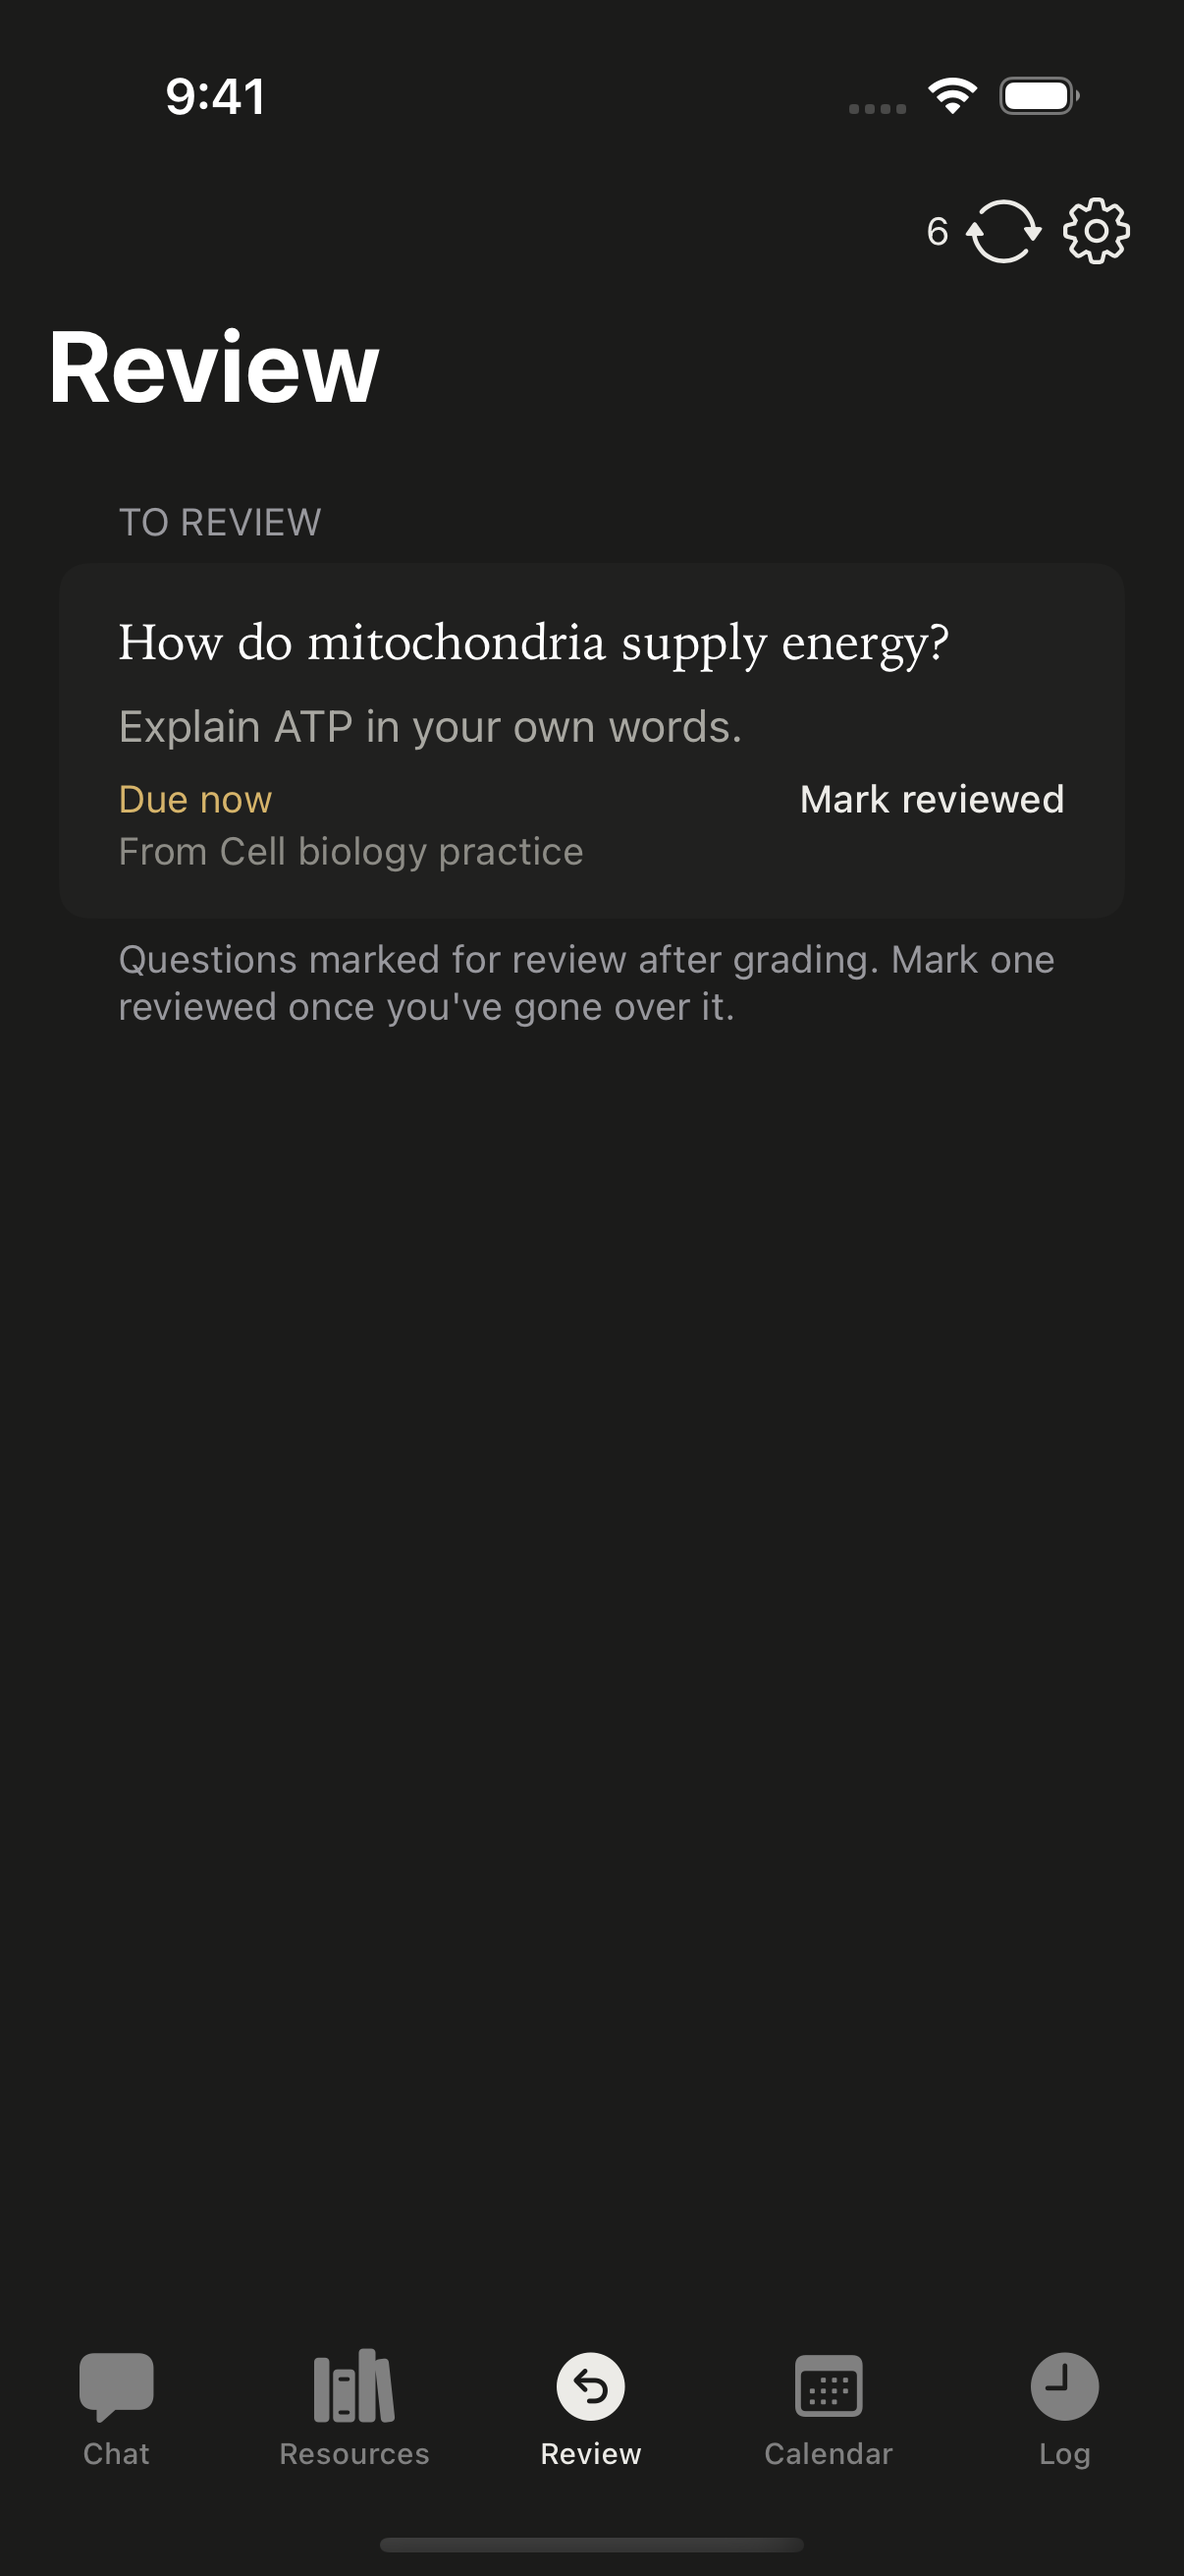
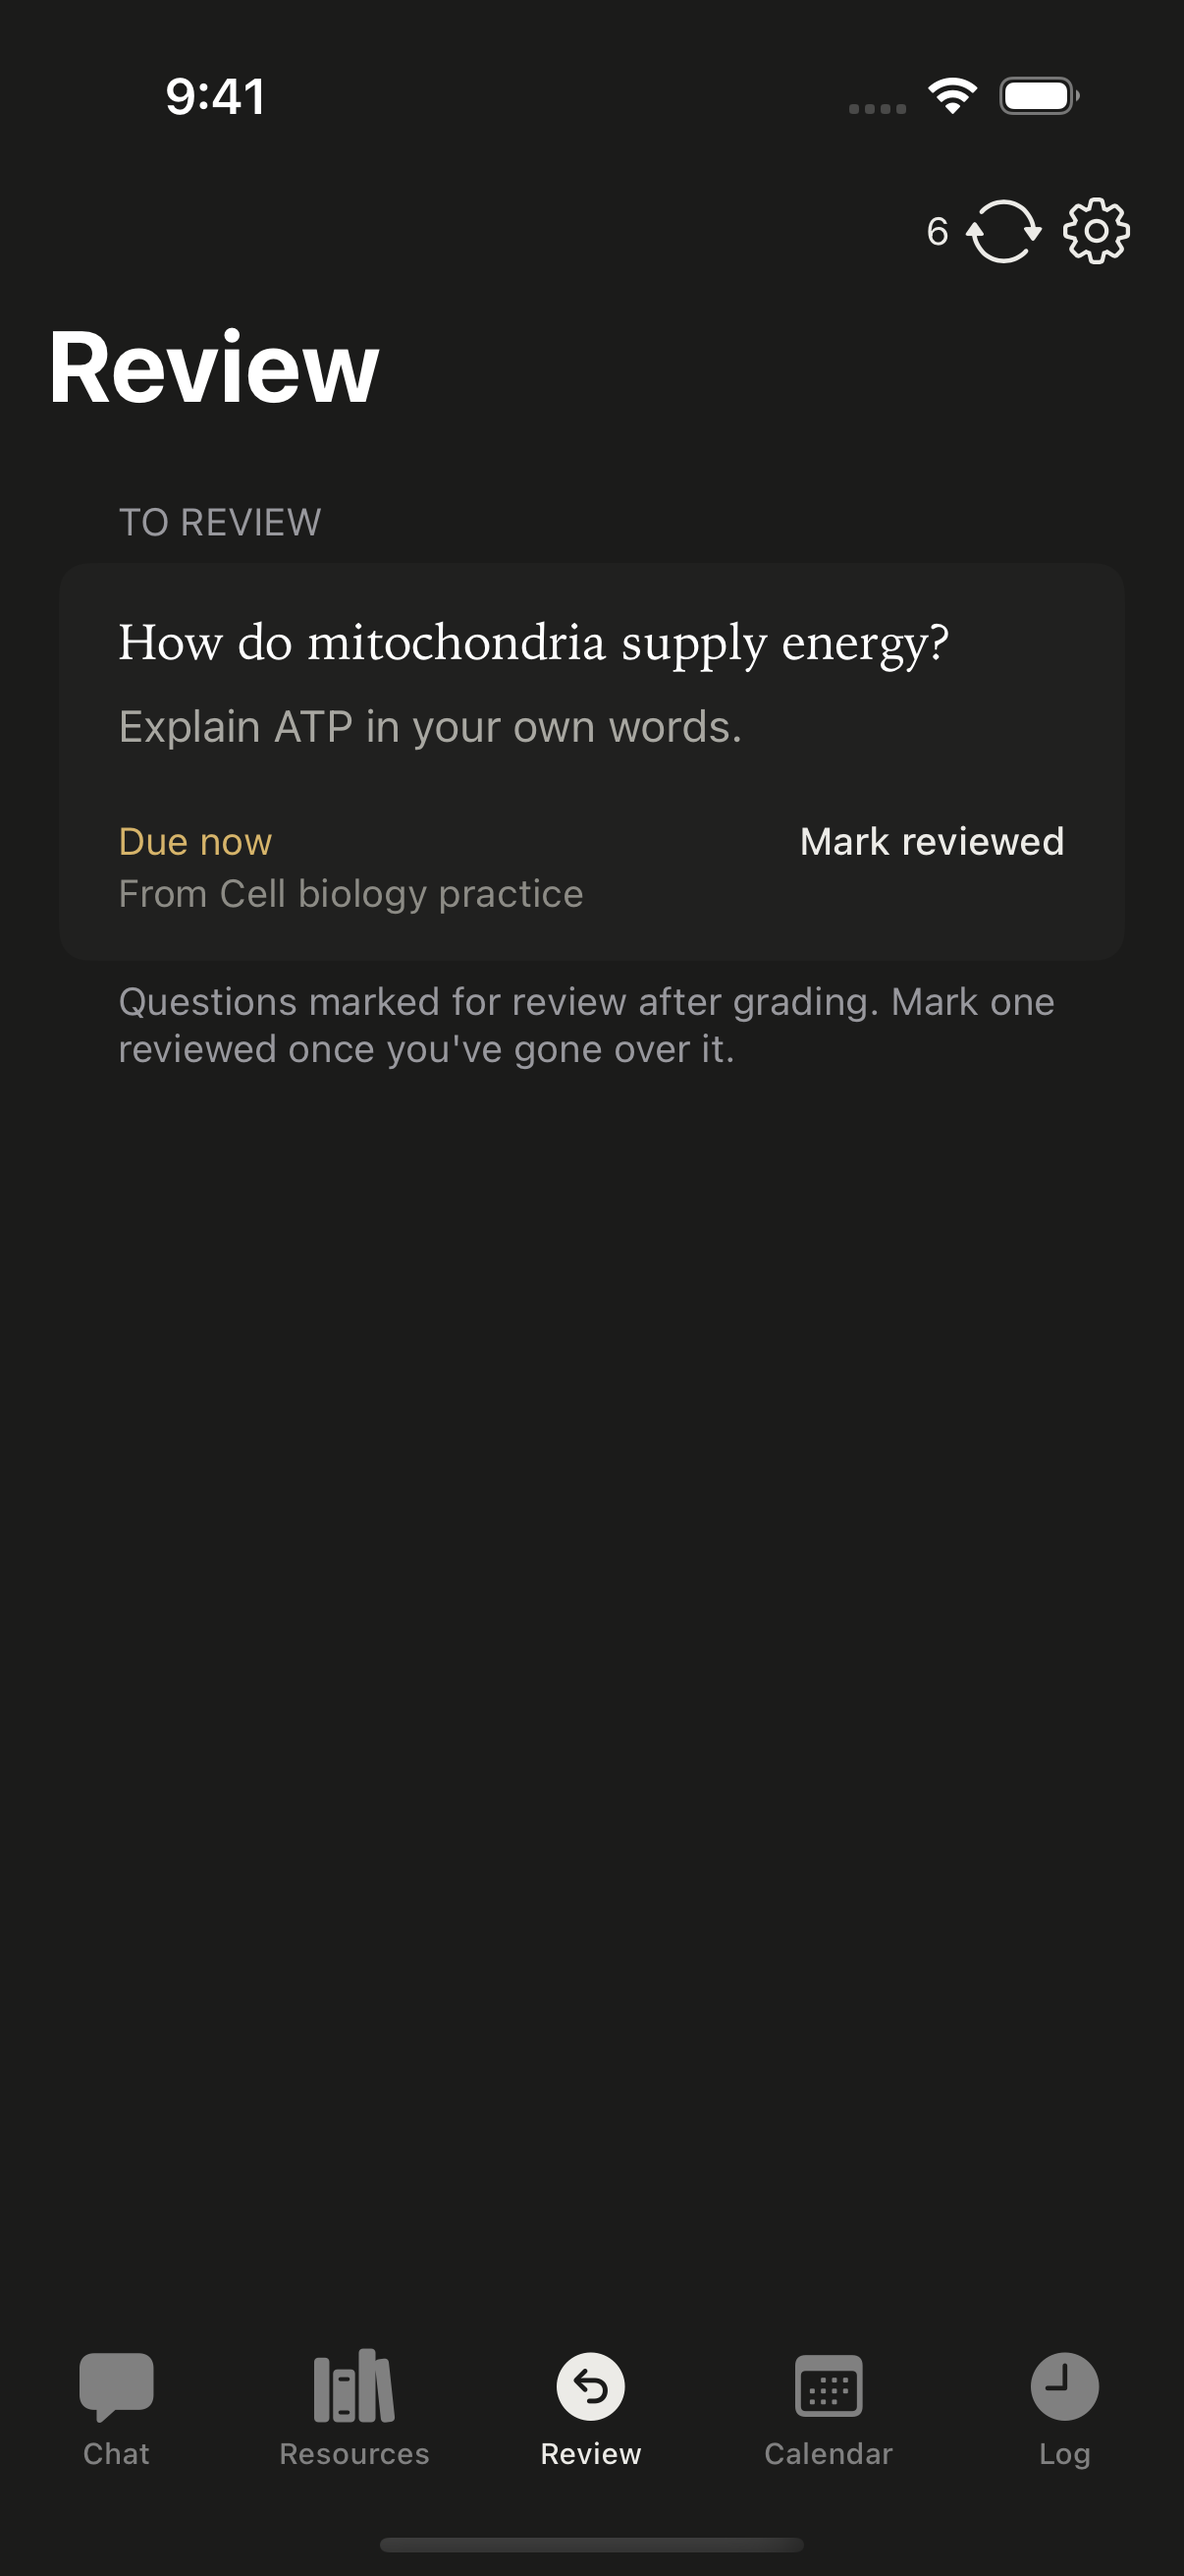
docs(ios): add verified timer choices and light-mode restart evidence

Changed region(s): [[0.092, 0.3089, 0.8897, 0.4325], [0.675, 0.3089, 0.9204, 0.3398]]

diff --git a/docs/evidence/ios/README.md b/docs/evidence/ios/README.md
@@ -4,11 +4,13 @@ These are screenshots from the actual SwiftUI app on an iPhone 16 Pro simulator 
 
 ## Verified implementation
 
-Implementation `ebdaf47198b9f430c9fcb03fec12edab213e045c` passed [native CI run 39767722272](https://github.com/etphli/centre/actions/runs/39767722272): unsigned iOS Release build, 63 portable XCTest cases, and all 10 simulator UI tests. The simulator suite executed in 223.339 seconds with zero failures. Xcode's exported screenshots below come from that run.
+Implementation `b12884568744312afbf6ba1865c4e48db0552435` passed [native CI run 39770040680](https://github.com/etphli/centre/actions/runs/39770040680): unsigned iOS Release build, 64 portable XCTest cases, and all 12 simulator UI tests. The simulator suite executed in 318.606 seconds with zero failures. Xcode's exported screenshots below come from that run. Its [complete artifact](https://github.com/etphli/centre/actions/runs/39770040680/artifacts/12422756534) includes recordings, result bundle, and logs.
 
-[Desktop CI run 39767722350](https://github.com/etphli/centre/actions/runs/39767722350) passed type checking, all 162 Node tests, renderer production build, Electron build, and unsigned app packaging. The local portable Swift executable also passed real disk reopen, exact lost-acknowledgement replay, successor edits, conflicts, checkpoint recovery, and DST checks.
+[Desktop CI run 39767722350](https://github.com/etphli/centre/actions/runs/39767722350) passed type checking, all 162 Node tests, renderer production build, Electron build, and unsigned app packaging. After integrating Search main `9418451`, combined local type checking and all 196 Node tests passed. The local portable Swift executable also passed real disk reopen, exact lost-acknowledgement replay, successor edits, conflicts, checkpoint recovery, and DST checks.
 
-The additional Review-resolution and light-theme restart test is in `62a16b9`. A later focused timer regression exercises Keep iPhone preserving its owned running lease, normal restart pausing it, and Keep cloud importing a running lease paused. Their actual results are recorded on the PR and in its native workflow, rather than inferred from these earlier captures.
+The added Review-resolution and light-theme restart test passed, as did the focused timer test for Keep iPhone preserving its owned running lease, normal restart pausing it, and Keep cloud importing a running lease paused. Visual inspection also found pale picker values immediately after switching to light mode. A focused Settings-local tint fix follows this run; its corrected capture and actual result are linked from the PR before readiness.
+
+The green native source tree is `6f8075ea8c0cf384698f14a979cc24274f4e5ad8`. Search integration `ccd5abf` preserves that exact tree. The two-line Settings tint correction `7a10582` changes it to `e8bbc073884c39efd9f5d36d4df03cd7072856be`; the PR records its actual follow-up verification.
 
 ## Exercised native states
 
@@ -19,8 +21,10 @@ The additional Review-resolution and light-theme restart test is in `62a16b9`. A
 | Quiz choice saved and restored without invented marking | [Draft](03-offline-quiz-draft.png), [restored choice](04-quiz-answer-restored.png) |
 | Immediate native Back preserves quiz answers | [Restored after Back](14-quiz-answer-after-immediate-native-back.png) |
 | Running timer recovers paused at its checkpoint | [Recovered timer](05-timer-recovered-paused.png) |
+| Explicit local choice retains running state; cloud choice imports paused | [Keep iPhone](20-keep-local-timer-still-running.png), [restart](21-local-timer-paused-on-restart.png), [Keep cloud](22-keep-cloud-timer-imported-paused.png) |
+| Light theme survives restart | [Light Log](19-light-log-after-restart.png) |
 | Completed Log entry and weekly goal survive restart | [Log and goal](06-completed-log-and-goal-restored.png) |
-| Saved Review question | [Review](07-review-saved-memory.png) |
+| Review action has a 44-point target; resolution survives restart | [Review](07-review-saved-memory.png), [resolved after restart](17-offline-review-resolution-restored.png) |
 | Cached calendar explicitly reports offline and saved plans | [Calendar](08-offline-calendar.png) |
 | Pending changes and distinct mobile provider | [Settings](09-settings-pending-and-provider.png) |
 | Accessibility XXXL actions remain readable and reachable | [Log](10-accessibility-large-log.png), [Settings](11-accessibility-large-settings.png) |
@@ -40,8 +44,10 @@ The diagram test exercises an actual external-link attempt and observes the real
 | X-2: generic blue selection | `38c6c54`: neutral palette and window tint | Native quiz selection and Settings captures above |
 | Native accessibility: Pause split mid-word and Settings squeezed values into columns | `ebdaf47`: stacked actions and labeled values at accessibility sizes | Corrected XXXL Log and Settings above |
 | Native calendar: empty cached week looked current | `ebdaf47`: explicit offline notice, saved-plan labels | Corrected calendar above |
+| Review action inherited the row identifier and had a small target | `c06d01c`, `b128845`: contained accessibility group and 44-point action | Review and resolved-after-restart captures above |
+| Keep iPhone incorrectly recovered its own running timer | `a7106f3`: choice-aware lease handling, exact core and actual simulator regressions | Keep iPhone, restart and Keep cloud captures above |
 
-GPT-6.1-Sol independently inspected the real native captures, then rechecked all corrected native findings. No remaining screenshot-backed P1 or P2 findings were identified in those captures. No new Claude review worker was started.
+GPT-6.1-Sol independently inspected the real native captures, then rechecked all corrected native findings. Those corrections were clear. The later light Settings capture exposed one remaining P1 in picker contrast; readiness requires the focused tint correction and a new actual capture. No new Claude review worker was started.
 
 ## Boundary verification and limits
 
